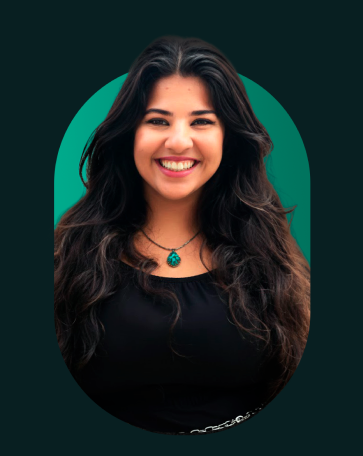
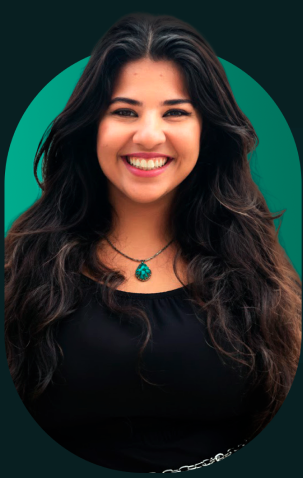
update n fixes

diff --git a/index.html b/index.html
@@ -2,25 +2,21 @@
 <html lang="pt-BR">
 <head>
   <meta charset="UTF-8">
-  <title>Travel Page</title>
+  <title>Thalita de Paula</title>
 
-  <!-- VIEWPORT (obrigatório para GitHub Pages) -->
   <meta name="viewport" content="width=device-width, initial-scale=1.0">
 
-  <!-- Fonte -->
   <link rel="preconnect" href="https://fonts.googleapis.com">
   <link rel="preconnect" href="https://fonts.gstatic.com" crossorigin>
   <link href="https://fonts.googleapis.com/css2?family=Advent+Pro:wght@400;600;700&display=swap" rel="stylesheet">
 
   <style>
-    /* RESET */
     * {
       margin: 0;
       padding: 0;
       box-sizing: border-box;
     }
 
-    /* BODY */
     body {
       min-height: 100vh;
       display: flex;
@@ -32,53 +28,68 @@
 
     /* HEADER */
     .site-header {
-      background-color: #081f21;                 /* mantém proporção */
-      padding: 4rem 6rem;               /* equivalente visual a 100/200px */
+      padding: 3rem 4rem;
       display: flex;
-      align-items: center;
-      justify-content: center;          /* mobile */
+      justify-content: center;
     }
 
     .site-logo {
-      max-height: 250pxs;                /* mesmo tamanho visual */
-      width: auto;
+      max-height: 180px;
     }
 
-    /* MAIN GRID */
+    /* GRID PRINCIPAL 2x2 */
     main {
       flex: 1;
       display: grid;
       grid-template-columns: 1fr 1fr;
       grid-template-rows: 1fr 1fr;
-      min-height: 50vh;                 /* garante proporção */
       position: relative;
     }
 
     /* CARDS */
     .card {
+      position: relative;
+      display: flex;
+      align-items: center;
+      justify-content: center;
+      z-index: 2;
+    }
+
+    /* Cards superiores têm fundo sólido */
+    .card.top {
       background-color: #081f21;
-      display: flex;
-      align-items: center;
-      justify-content: center;
-      font-size: 1.2rem;
     }
 
-    /* FAIXA */
-    .band-container {
-      position: absolute;               /* evita dependência do grid */
-      bottom: 0;
-      left: 0;
-      width: 100%;
+    /* Cards inferiores deixam a faixa aparecer */
+    .card.bottom {
+      background-color: transparent;
+    }
+
+    /* ======================
+       CARD 2
+       ====================== */
+    .card-2 {
+      display: grid;
+      grid-template-columns: auto 1fr;
+      align-items: center;
+      background-color: #081f21;
+    }
+
+    .card-2-image {
+      height: 100%;
+    }
+
+    .card-2-image img {
+      height: 100%;
+      width: auto;
+      object-fit: contain;
+      padding: 1rem;
+      display: block;
+    }
+
+    .card-2-band {
       height: 50%;
-      display: flex;
-      align-items: center;
-      justify-content: center;
-      pointer-events: none;
-    }
-
-    .band {
-      width: 100%;
-      height: 80%;
+      align-self: center;
       background: linear-gradient(
         to right,
         #081f21 0%,
@@ -87,18 +98,44 @@
       );
     }
 
+    /* ======================
+       FAIXA CONTÍNUA (LINHA INFERIOR)
+       ====================== */
+    .bottom-band {
+      grid-column: 1 / -1;
+      grid-row: 2;
+      align-self: center;
+      height: 50%;
+      background: linear-gradient(
+        to right,
+        #081f21 0%,
+        #004040 50%,
+        #0a2124 100%
+      );
+      z-index: 1;
+    }
+
     /* FOOTER */
     footer {
       background-color: #004040;
-      text-align: center;
       padding: 1rem;
-      font-size: 0.9rem;
+      text-align: center;
     }
 
     /* RESPONSIVO */
-    @media (min-width: 900px) {
-      .site-header {
-        justify-content: flex-start;
+    @media (max-width: 800px) {
+      main {
+        grid-template-columns: 1fr;
+        grid-template-rows: repeat(4, 1fr);
+      }
+
+      .bottom-band {
+        grid-row: auto;
+        height: 25%;
+      }
+
+      .card.bottom {
+        background-color: #081f21;
       }
     }
   </style>
@@ -106,28 +143,27 @@
 
 <body>
 
-  <!-- HEADER COM LOGO -->
   <header class="site-header">
-    <img
-      src="logo.png"
-      alt="Logotipo do site"
-      class="site-logo"
-    >
+    <img src="logo.png" alt="Logotipo" class="site-logo">
   </header>
 
-  <!-- GRID PRINCIPAL -->
   <main>
-    <div class="card">Card 1</div>
-    <div class="card">Card 2</div>
-    <div class="card">Card 3</div>
-    <div class="card">Card 4</div>
+    <div class="card top">Card 1</div>
 
-    <div class="band-container">
-      <div class="band"></div>
+    <div class="card card-2 top">
+      <div class="card-2-image">
+        <img src="profile.png" alt="Imagem do Card 2">
+      </div>
+      <div class="card-2-band"></div>
     </div>
+
+    <div class="card bottom">Card 3</div>
+    <div class="card bottom">Card 4</div>
+
+    <!-- faixa contínua real -->
+    <div class="bottom-band"></div>
   </main>
 
-  <!-- FOOTER -->
   <footer>
     Footer da Página
   </footer>
